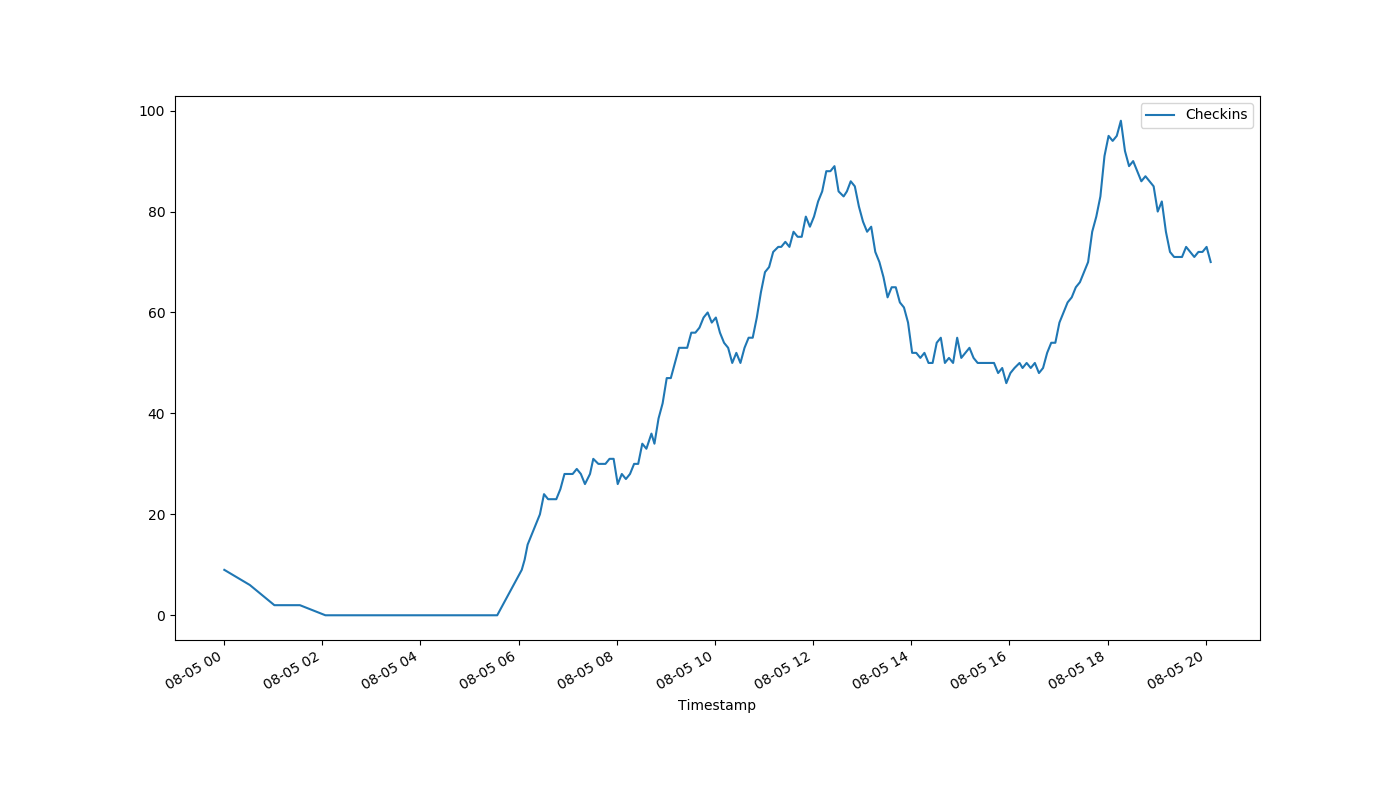
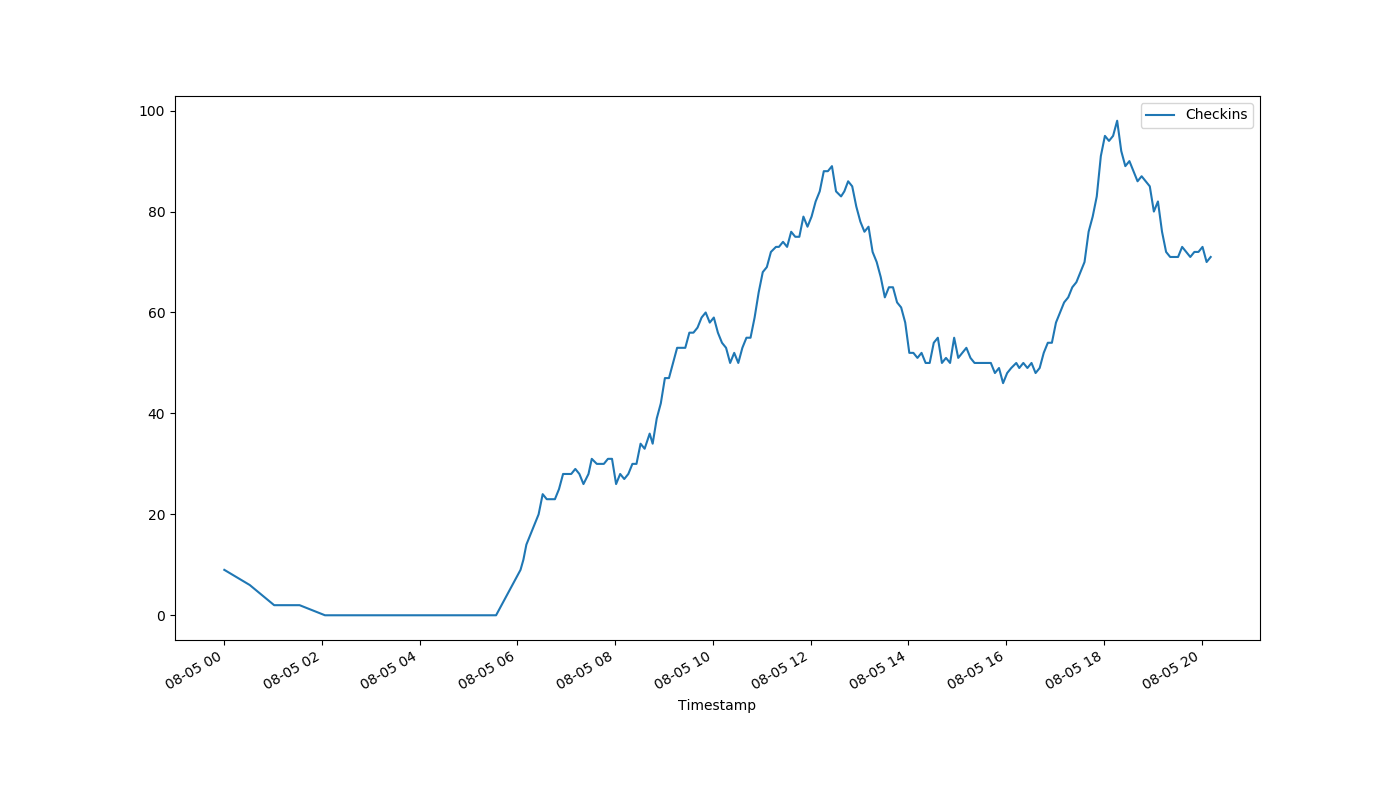
auto-Aug-05-20:12:06

diff --git a/index.html b/index.html
@@ -1,1 +1,1 @@
-<!DOCTYPE html><html><head><meta http-equiv="refresh" content="30"><link rel='stylesheet' href='holmcurrent.css'></head><body><p id='count'>70</p><div id='graph-wrap'><img id='graph' src='holmgraph-Aug-05.png'></div><p id='updated'>Last updated 20:06:06 / 20:06:02</p></body></html>
+<!DOCTYPE html><html><head><meta http-equiv="refresh" content="30"><link rel='stylesheet' href='holmcurrent.css'></head><body><p id='count'>71</p><div id='graph-wrap'><img id='graph' src='holmgraph-Aug-05.png'></div><p id='updated'>Last updated 20:11:06 / 20:11:03</p></body></html>
